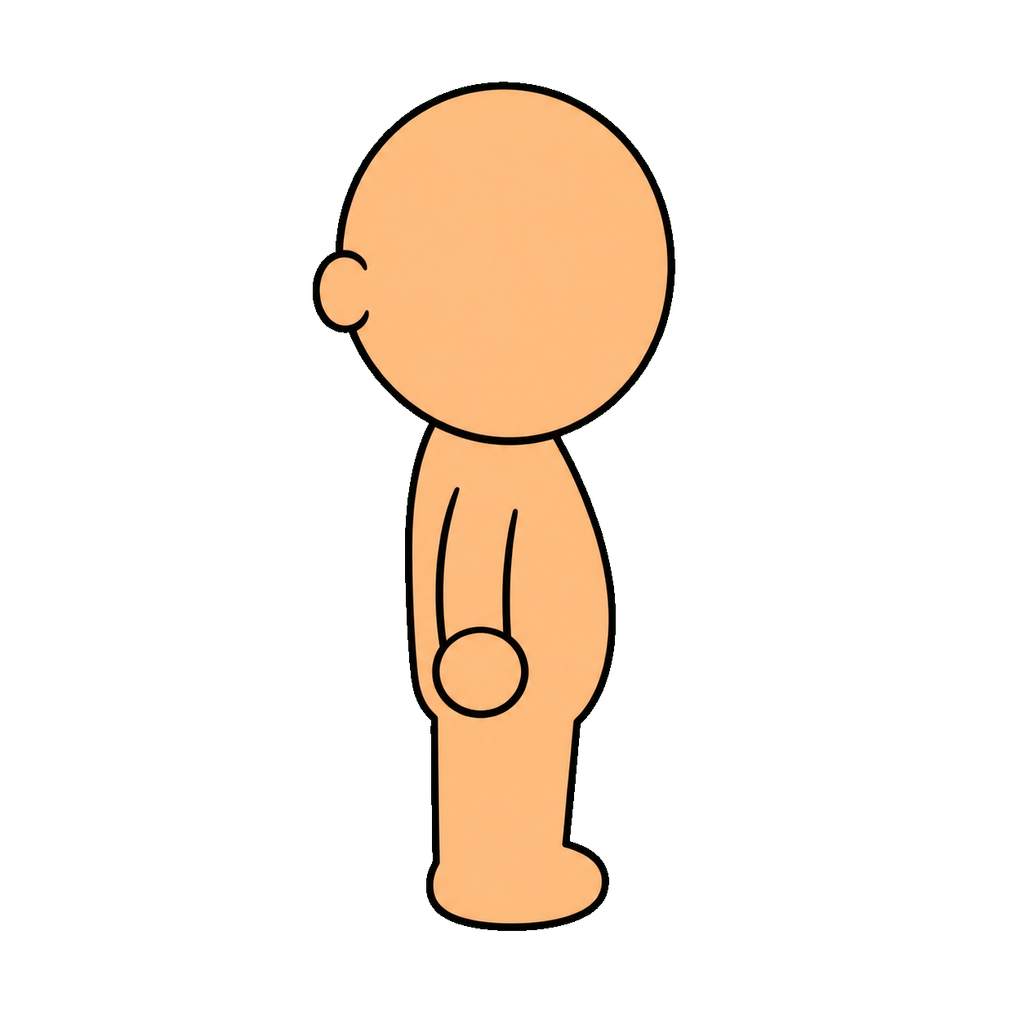
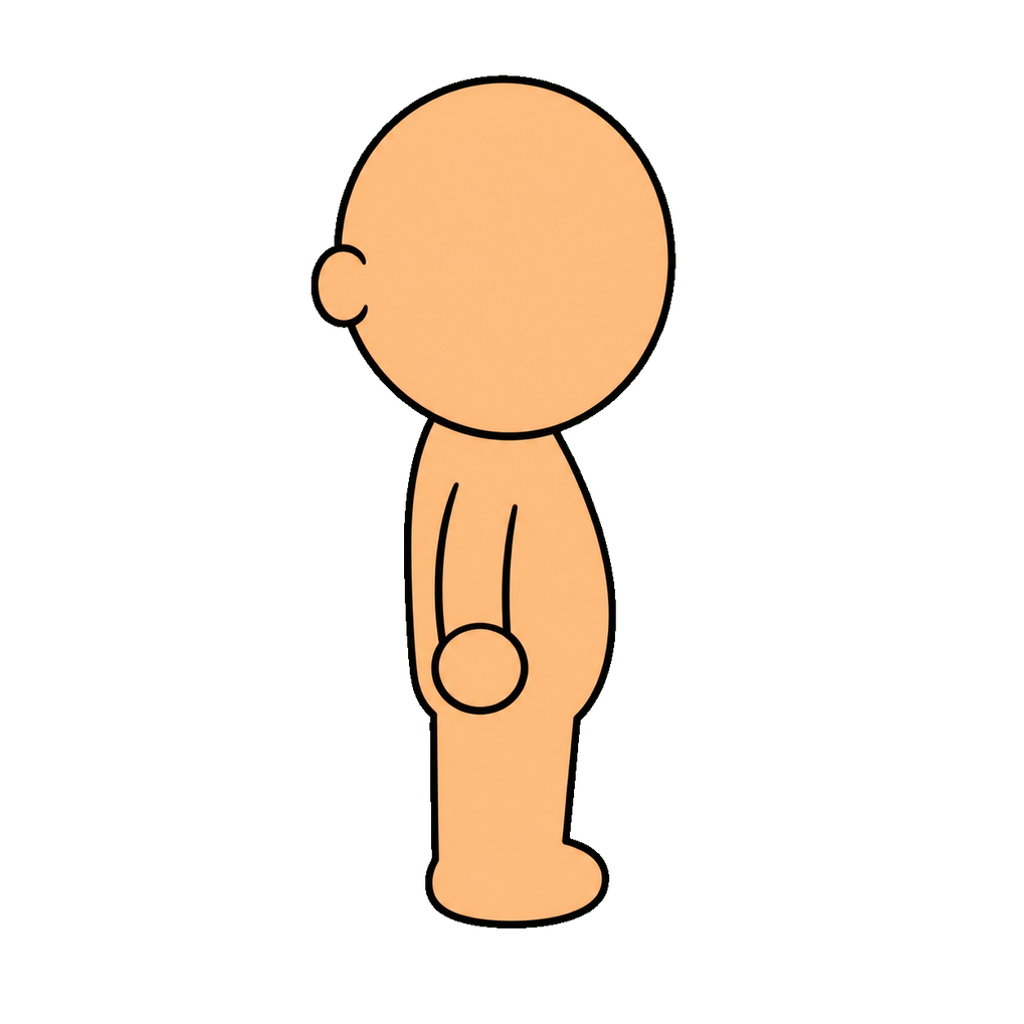
Normalize static side view scale

diff --git a/tools/promote-static-master-dummy.js b/tools/promote-static-master-dummy.js
@@ -7,6 +7,12 @@ const STATIC_DIR = path.join(ROOT, "drafts", "static-views");
 const BODY_DIR = path.join(ROOT, "master-dummy", "v1", "body");
 const MANIFEST_PATH = path.join(ROOT, "manifests", "mpc-master-dummy-frame-pack-v1.json");
 const QA_DIR = path.join(ROOT, "exports", "qa");
+const CANVAS = 1024;
+const SIDE_TARGET = {
+  height: 858,
+  footY: 929,
+  rightCenterX: 530,
+};
 
 function ensureDir(dir) {
   fs.mkdirSync(dir, { recursive: true });
@@ -24,6 +30,64 @@ async function copyStaticView(sourceFile, direction) {
     .png()
     .toFile(out);
   return path.relative(ROOT, out).replace(/\\/g, "/");
+}
+
+async function alphaBounds(input) {
+  const image = sharp(input).ensureAlpha();
+  const meta = await image.metadata();
+  const data = await image.raw().toBuffer();
+  let minX = meta.width;
+  let minY = meta.height;
+  let maxX = -1;
+  let maxY = -1;
+
+  for (let y = 0; y < meta.height; y += 1) {
+    for (let x = 0; x < meta.width; x += 1) {
+      if (data[(y * meta.width + x) * 4 + 3] > 0) {
+        minX = Math.min(minX, x);
+        minY = Math.min(minY, y);
+        maxX = Math.max(maxX, x);
+        maxY = Math.max(maxY, y);
+      }
+    }
+  }
+
+  if (maxX < 0 || maxY < 0) {
+    throw new Error(`No visible pixels found in ${input}`);
+  }
+
+  return {
+    left: minX,
+    top: minY,
+    width: maxX - minX + 1,
+    height: maxY - minY + 1,
+  };
+}
+
+async function normalizeRightSide(input, output) {
+  const bounds = await alphaBounds(input);
+  const width = Math.round((bounds.width / bounds.height) * SIDE_TARGET.height);
+  const layer = await sharp(input)
+    .extract(bounds)
+    .resize(width, SIDE_TARGET.height, { fit: "fill" })
+    .png()
+    .toBuffer();
+
+  await sharp({
+    create: {
+      width: CANVAS,
+      height: CANVAS,
+      channels: 4,
+      background: { r: 0, g: 0, b: 0, alpha: 0 },
+    },
+  })
+    .composite([{
+      input: layer,
+      left: Math.round(SIDE_TARGET.rightCenterX - width / 2),
+      top: SIDE_TARGET.footY - SIDE_TARGET.height + 1,
+    }])
+    .png()
+    .toFile(output);
 }
 
 async function compositeCell(direction) {
@@ -101,7 +165,10 @@ async function main() {
 
   frames.push(await copyStaticView("master-dummy-front-idle-01-alpha.png", "front"));
   frames.push(await copyStaticView("master-dummy-back-idle-01-alpha.png", "back"));
-  frames.push(await copyStaticView("master-dummy-right-idle-01-alpha.png", "right"));
+  const rightOut = idlePath("right");
+  ensureDir(path.dirname(rightOut));
+  await normalizeRightSide(path.join(STATIC_DIR, "master-dummy-right-idle-01-alpha.png"), rightOut);
+  frames.push(path.relative(ROOT, rightOut).replace(/\\/g, "/"));
 
   const leftOut = idlePath("left");
   ensureDir(path.dirname(leftOut));

diff --git a/motion-test/index.html b/motion-test/index.html
@@ -240,7 +240,7 @@
     const label = document.getElementById("label");
     const loadStatus = document.getElementById("loadStatus");
     const buttons = [...document.querySelectorAll(".btn")];
-    const assetVersion = "static-four-view-right-mirror-20260625";
+    const assetVersion = "static-four-view-scale-lock-20260625";
 
     function framePath(direction) {
       return `../master-dummy/v1/body/${direction}/idle/body_${direction}_idle_01.png?v=${assetVersion}`;